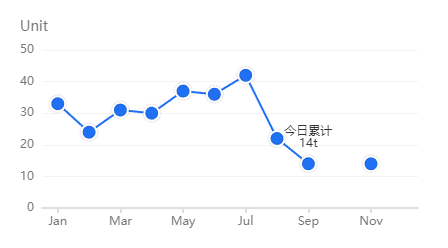
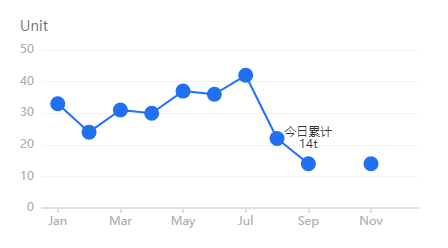
docs: remove invalid attributes and related demos from the line-chart… (#20)
* docs: remove invalid attributes and related demos from the line-chart api section

* refactor: update the screenshot of the line-chart demo

diff --git a/doc/api/BarChart/index.js b/doc/api/BarChart/index.js
@@ -8,15 +8,12 @@ import { xAxisMd, xAxis } from '../common/xAxis'
 import { yAxisMd, yAxis } from '../common/yAxis'
 import { dataZoomMd, dataZoom } from '../common/dataZoom'
 import { eventMd, event } from '../common/event'
-import { linearGradientMd, linearGradient } from '../common/linearGradient'
 import dataMd from './data.md?raw'
 import itemStyleMd from './itemStyle.md?raw'
 import typeMd from './type.md?raw'
 import directionMd from './direction.md?raw'
 import labelMd from './label.md?raw'
 import lineDataNameMd from './lineDataName.md?raw'
-import stepGradientMd from './stepGradient.md?raw'
-import axisPointerMd from './axisPointer.md?raw'
 import topTipHtmlMd from './topTipHtml.md?raw'
 import markLineMd from './markLine.md?raw'
 
@@ -31,12 +28,9 @@ const data = {
         tipHtml,
         tipHtmlStyle,
         dataZoom,
-        linearGradient,
         event,
         ['data', '图表数据(必填)', 'array', '无'],
         ['type', '配置柱状图类型', 'string', 'bar'],
-        ['stepGradient', '柱体分段渐变', 'array', '无'],
-        ['axisPointer', '坐标指示器样式（数据背景区域样式）', 'object', 'rgba(25,25,25,0.08)'],
         ['topTipHtml', '顶部位置悬浮提示框', 'function', '默认不显示'],
         ['itemStyle', '柱体样式', 'object', '{barWidth:8,barGap:\'60 %\'}'],
         ['direction', '柱体方向', 'string', 'vertical'],
@@ -54,12 +48,9 @@ const data = {
         tipHtmlMd,
         tipHtmlStyleMd,
         dataZoomMd,
-        linearGradientMd,
         eventMd,
         dataMd,
         typeMd,
-        stepGradientMd,
-        axisPointerMd,
         topTipHtmlMd,
         itemStyleMd,
         directionMd,

diff --git a/doc/api/AreaChart/index.js b/doc/api/AreaChart/index.js
@@ -8,7 +8,6 @@ import { xAxisMd, xAxis } from '../common/xAxis'
 import { yAxisMd, yAxis } from '../common/yAxis'
 import { dataZoomMd, dataZoom } from '../common/dataZoom'
 import { eventMd, event } from '../common/event'
-import { linearGradientMd, linearGradient } from '../common/linearGradient'
 import dataMd from '../LineChart/data.md?raw'
 import itemStyleMd from '../LineChart/itemStyle.md?raw'
 import smoothMd from '../LineChart/smooth.md?raw'
@@ -31,7 +30,6 @@ const data = {
         xAxis,
         yAxis,
         dataZoom,
-        linearGradient,
         event,
         ['data', '图表数据(必填)', 'array', '无'],
         ['area', '面积图是否更改为折线图', 'boolean', 'false'],
@@ -54,7 +52,6 @@ const data = {
         xAxisMd,
         yAxisMd,
         dataZoomMd,
-        linearGradientMd,
         eventMd,
         dataMd,
         areaMd,

diff --git a/doc/api/LineChart/index.js b/doc/api/LineChart/index.js
@@ -8,7 +8,6 @@ import { xAxisMd, xAxis } from '../common/xAxis'
 import { yAxisMd, yAxis } from '../common/yAxis'
 import { dataZoomMd, dataZoom } from '../common/dataZoom'
 import { eventMd, event } from '../common/event'
-import { linearGradientMd, linearGradient } from '../common/linearGradient'
 import dataMd from './data.md?raw'
 import itemStyleMd from './itemStyle.md?raw'
 import smoothMd from './smooth.md?raw'
@@ -35,7 +34,6 @@ const data = {
         xAxis,
         yAxis,
         dataZoom,
-        linearGradient,
         event,
         ['markline', '阈值线配置', 'object', '无'],
         ['markPoint', '峰值标记', 'object', '{max:false,min:false}'],
@@ -56,7 +54,6 @@ const data = {
         xAxisMd,
         yAxisMd,
         dataZoomMd,
-        linearGradientMd,
         eventMd,
         marklineMd,
         markpointMd,

diff --git a/public/option/LineChart/LineChart-14.js b/public/option/LineChart/LineChart-14.js
@@ -6,7 +6,7 @@ const option = {
     },
     // 折线图每个拐点样式
     itemStyle: {
-        symbolSize: '15',
+        symbolSize: 15,
     },
     // 当值为 null 时表示该线不显示，当值为 0 时表示该线仍然有值
     data: [
@@ -29,10 +29,11 @@ const option = {
     yAxis: {
         name: 'Unit'
     },
-    series: [ 
+    series: [
         {
             name: 'Domestic', // 覆盖 Domestic 线条的样式
             showSymbol: true,
+            symbol:'circle',
             label: {
                 show: true,
                 formatter: (params) => {

diff --git a/public/option/LineChart/LineChart-32.js b/public/option/LineChart/LineChart-32.js
@@ -1,4 +1,5 @@
 const option = {
+  theme:"hdesign-dark",
   data: [
     { time: '09:00', 'Domestic': 35 },
     { time: '10:00', 'Domestic': 35 },
@@ -26,6 +27,7 @@ const option = {
     {
       name: 'Domestic',
       symbolSize: 15,
+      symbol:'circle',
       showSymbol: true,
       hoverAnimation: false,
       label: {
